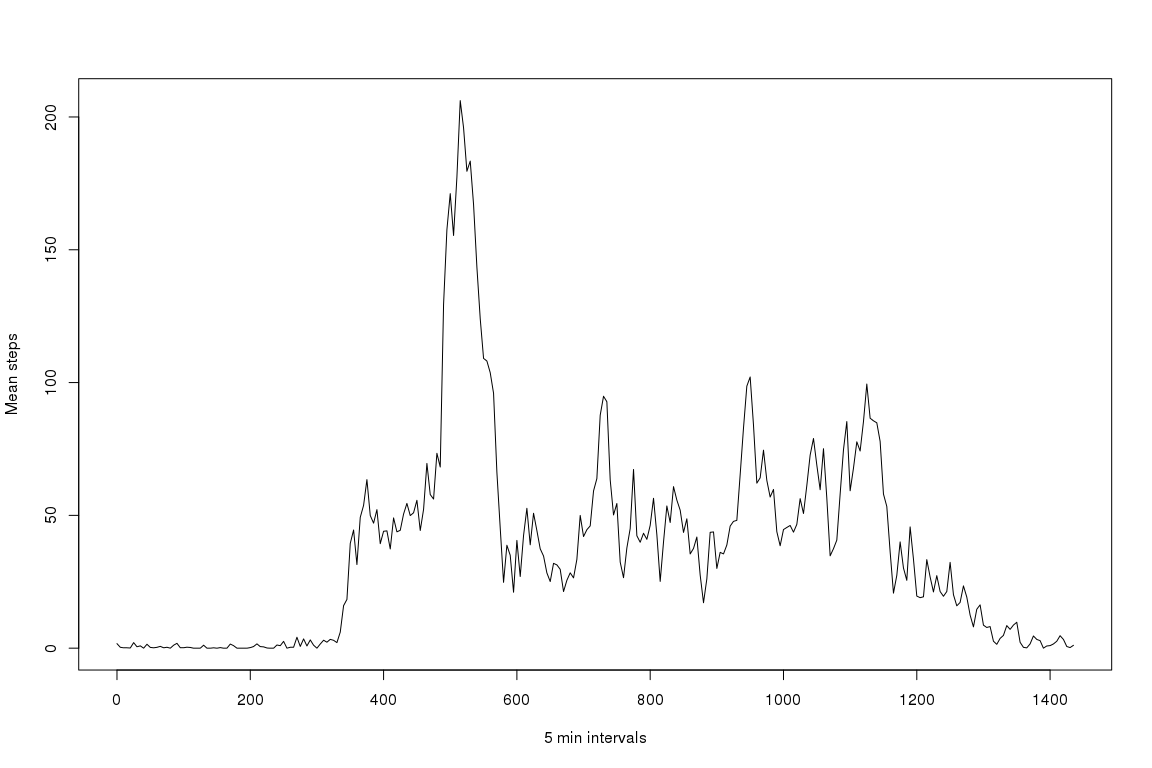
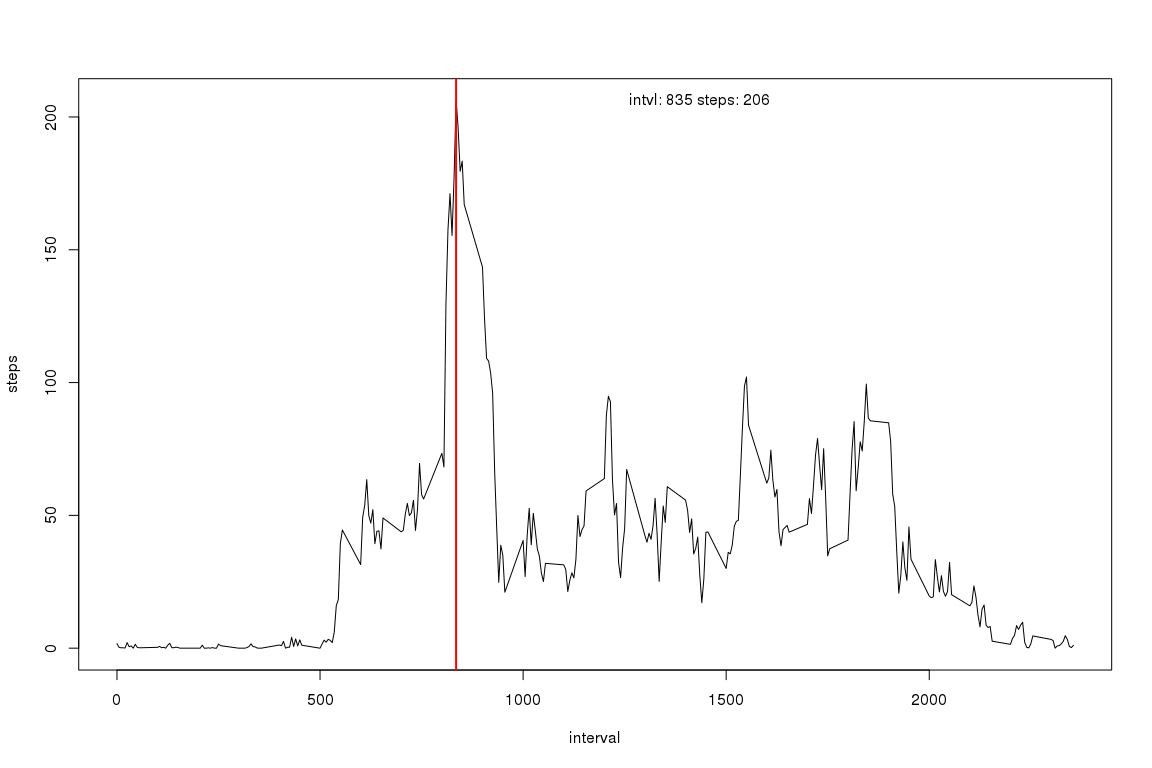
changes made after submission correcting mistakes in calculation of means, the plotting of the histograms, imputing data and the final plot is actually a panel plot

diff --git a/PA1_template.html b/PA1_template.html
@@ -131,45 +131,58 @@ $(document).ready(function () {
 <div id="what-is-mean-total-number-of-steps-taken-per-day" class="section level3">
 <h3>What is mean total number of steps taken per day?</h3>
 <pre class="r"><code>#calculate the mean number of steps taken for each day
-mean_daily_steps &lt;- tapply(X=activity$steps, INDEX = activity$date, FUN=mean, na.rm=TRUE)</code></pre>
+#mean_daily_steps &lt;- tapply(X=activity$steps, INDEX = activity$date, FUN=mean, na.rm=TRUE)
+mean_daily_steps &lt;- aggregate(steps ~ date, data=activity, sum, na.rm=TRUE)</code></pre>
 <p>A histogram of the number of steps taken each day is shown below</p>
-<pre class="r"><code>hist(mean_daily_steps)</code></pre>
+<pre class="r"><code>hist(mean_daily_steps$steps, xlab = &quot;Total daily steps taken&quot;)</code></pre>
 <p><img src="figure/unnamed-chunk-2-1.png" /><!-- --></p>
-<p>The mean number of total steps per day is 37.3825996 while the median is 37.3784722</p>
+<p>The mean number of total steps per day is 10766 while the median is 10765</p>
 </div>
 <div id="what-is-the-average-daily-activity-pattern" class="section level3">
 <h3>What is the average daily activity pattern?</h3>
 <p>A timeseries plot of the average of the 5-minute intervals across all days</p>
-<pre class="r"><code>mean_5min_intervals &lt;- tapply(X=activity$steps, INDEX = activity$interval, FUN=mean, na.rm=TRUE)
-plot(seq(0, 1435, by = 5), mean_5min_intervals, type=&quot;l&quot;, xlab = &quot;5 min intervals&quot;, ylab = &quot;Mean steps&quot;)</code></pre>
-<p><img src="figure/unnamed-chunk-3-1.png" /><!-- --></p>
-<pre class="r"><code>#calculate the max steps
-max_mean_5min_intervals &lt;- max(mean_5min_intervals,na.rm=TRUE)
+<pre class="r"><code>#mean_5min_intervals &lt;- tapply(X=activity$steps, INDEX = activity$interval, FUN=mean, na.rm=TRUE)
+#plot(seq(0, 1435, by = 5), mean_5min_intervals, type=&quot;l&quot;, xlab = &quot;5 min intervals&quot;, ylab = &quot;Mean steps&quot;)
+
+mean_5min_intervals &lt;- aggregate(steps ~ interval, data = activity, FUN = mean, na.rm=TRUE)
+
+plot(steps ~ interval, data = mean_5min_intervals, type=&quot;l&quot;)
+
+#calculate the max steps
+max_mean_5min_intervals &lt;- max(mean_5min_intervals$steps,na.rm=TRUE)
 
 #find the index with the highest number of steps
-idx_max_mean_5min_intervals &lt;- which(mean_5min_intervals == max_mean_5min_intervals)
-max_intvl &lt;- idx_max_mean_5min_intervals*5</code></pre>
-<p>The 5 min interval with the highest number of steps is 520 with 206.1698113 steps.</p>
+idx_max_mean_5min_intervals &lt;- which(mean_5min_intervals$steps == max_mean_5min_intervals)
+max_intvl &lt;- mean_5min_intervals[idx_max_mean_5min_intervals,]$interval
+
+abline(v=max_intvl, col=&quot;red&quot;, lwd=2)
+text(x=max_intvl+600,y=max_mean_5min_intervals, paste(&quot;intvl:&quot;,max_intvl, &quot;steps:&quot;, round(max_mean_5min_intervals), sep=&quot; &quot;))</code></pre>
+<p><img src="figure/unnamed-chunk-3-1.png" /><!-- --></p>
+<p>The 5 min interval with the highest number of steps is 835 with 206.1698113 steps.</p>
 </div>
 <div id="imputing-missing-values" class="section level3">
 <h3>Imputing missing values</h3>
-<pre class="r"><code>num_NA &lt;- sum(is.na(activity))
+<pre class="r"><code>num_NA &lt;- sum(is.na(activity$steps))
 
-#calculate the mean across all steps
-mean_all_intervals &lt;- mean(activity$steps, na.rm=TRUE)
+#calculate the mean steps for each interval
+mean_all_intervals &lt;- aggregate(steps ~ interval, data=activity, FUN=mean, na.rm=TRUE)
 
 #copy the activity dataset
 activity_noNA &lt;- activity
 
-#replace all NAs with the mean across all steps
-activity_noNA[is.na(activity_noNA$steps),&quot;steps&quot;] &lt;- mean_all_intervals
+intervals_NA &lt;- activity_noNA[is.na(activity_noNA$steps),&quot;interval&quot;]
 
-mean_5min_intervals_noNA &lt;- tapply(X=activity_noNA$steps, INDEX = activity_noNA$interval, FUN=mean, na.rm=TRUE)</code></pre>
+#replace all NAs with the mean for that 5 min interval
+ activity_noNA[is.na(activity_noNA$steps),&quot;steps&quot;]  &lt;- sapply(intervals_NA, FUN = function(x) { mean_all_intervals[mean_all_intervals$interval == x, &quot;steps&quot;]})
+
+#mean_5min_intervals_noNA &lt;- tapply(X=activity_noNA$steps, INDEX = activity_noNA$interval, FUN=mean, na.rm=TRUE)
+
+mean_5min_intervals_noNA &lt;- aggregate(steps ~ date, data=activity_noNA, FUN=sum, na.rm=TRUE)</code></pre>
 <p>A histogram of the number of steps taken each day with imputed data is shown below</p>
-<pre class="r"><code>hist(mean_5min_intervals_noNA)</code></pre>
+<pre class="r"><code>hist(mean_5min_intervals_noNA$steps, xlab = &quot;Total steps taken&quot;)</code></pre>
 <p><img src="figure/unnamed-chunk-5-1.png" /><!-- --></p>
-<p>There is a great change in the distribution of the steps. The imputed data displays a strong right skew while the data with NAs is almost normally distributed.</p>
-<p>The mean number of total steps per day is 37.3825996 while the median is 34.5419803</p>
+<p>There is a slight change in that there are higher counts around the center of the histogram.</p>
+<p>The mean number of total steps per day is 10766 while the median is 10766</p>
 </div>
 <div id="are-there-differences-in-activity-patterns-between-weekdays-and-weekends" class="section level3">
 <h3>Are there differences in activity patterns between weekdays and weekends?</h3>
@@ -177,26 +190,30 @@ mean_5min_intervals_noNA &lt;- tapply(X=activity_noNA$steps, INDEX = activity_no
 
 activity$wkday &lt;- as.factor(activity$wkday)
 
-wkdays &lt;- which(activity$wkday == &quot;weekday&quot;)
-wkends &lt;- which(activity$wkday == &quot;weekend&quot;)
+#wkdays &lt;- which(activity$wkday == &quot;weekday&quot;)
+#wkends &lt;- which(activity$wkday == &quot;weekend&quot;)
 
+#weekday_means &lt;- tapply(X=activity[wkdays,]$steps, INDEX = activity[wkdays,]$interval, FUN=mean, na.rm=TRUE)
 
-wkdays &lt;- which(activity$wkday == &quot;weekday&quot;)
-wkends &lt;- which(activity$wkday == &quot;weekend&quot;)
+#weekend_means &lt;- tapply(X=activity[wkends,]$steps, INDEX = activity[wkends,]$interval, FUN=mean, na.rm=TRUE)
 
-weekday_means &lt;- tapply(X=activity[wkdays,]$steps, INDEX = activity[wkdays,]$interval, FUN=mean, na.rm=TRUE)
+#par(mfrow=c(1,2))
 
-weekend_means &lt;- tapply(X=activity[wkends,]$steps, INDEX = activity[wkends,]$interval, FUN=mean, na.rm=TRUE)
+#rng &lt;- range(weekday_means, weekend_means)
 
-par(mfrow=c(1,2))
+#plot(seq(0, 1435, by = 5), weekday_means, type=&quot;l&quot;, ylim=rng, xlab = &quot;5 min intervals&quot;, ylab = &quot;Mean steps&quot;, sub = &quot;weekday&quot;)
+#
+#plot(seq(0, 1435, by = 5), weekend_means, type=&quot;l&quot;, ylim=rng, xlab = &quot;5 min intervals&quot;, ylab = &quot;Mean steps&quot;, sub = &quot;weekend&quot;)
+#
+#title(main=&quot;Average steps per interval&quot;, outer = TRUE)
 
-rng &lt;- range(weekday_means, weekend_means)
+par(mfrow=c(1,1))
 
-plot(seq(0, 1435, by = 5), weekday_means, type=&quot;l&quot;, ylim=rng, xlab = &quot;5 min intervals&quot;, ylab = &quot;Mean steps&quot;, sub = &quot;weekday&quot;)
+#means &lt;- aggregate(activity$steps, by=list(activity$wkday, activity$interval), mean, na.rm=TRUE)
 
-plot(seq(0, 1435, by = 5), weekend_means, type=&quot;l&quot;, ylim=rng, xlab = &quot;5 min intervals&quot;, ylab = &quot;Mean steps&quot;, sub = &quot;weekend&quot;)
+means &lt;- aggregate(steps ~ interval + wkday, data = activity, mean, na.rm=TRUE)
 
-title(main=&quot;Average steps per interval&quot;, outer = TRUE)</code></pre>
+lattice::xyplot(steps ~ interval | as.factor(means$wkday), data = means, type=&quot;l&quot;)</code></pre>
 <p><img src="figure/unnamed-chunk-6-1.png" /><!-- --></p>
 <p>There are differences between weekday and weekend activity. There is a slower start to activity on the weekend which culminates in higher volumes in the middle of the day than weekdays. Weekdays however have a higher maximum number of steps early in the day.</p>
 </div>

diff --git a/PA1_template.md b/PA1_template.md
@@ -11,19 +11,20 @@ July 21, 2016
 
 ```r
 #calculate the mean number of steps taken for each day
-mean_daily_steps <- tapply(X=activity$steps, INDEX = activity$date, FUN=mean, na.rm=TRUE)
+#mean_daily_steps <- tapply(X=activity$steps, INDEX = activity$date, FUN=mean, na.rm=TRUE)
+mean_daily_steps <- aggregate(steps ~ date, data=activity, sum, na.rm=TRUE)
 ```
 
 A histogram of the number of steps taken each day is shown below
 
 
 ```r
-hist(mean_daily_steps)
+hist(mean_daily_steps$steps, xlab = "Total daily steps taken")
 ```
 
 ![](figure/unnamed-chunk-2-1.png)<!-- -->
 
-The mean number of total steps per day is 37.3825996 while the median is 37.3784722
+The mean number of total steps per day is 10766 while the median is 10765
 
 ###What is the average daily activity pattern?
 
@@ -31,52 +32,62 @@ A timeseries plot of the average of the 5-minute intervals across all days
 
 
 ```r
-mean_5min_intervals <- tapply(X=activity$steps, INDEX = activity$interval, FUN=mean, na.rm=TRUE)
-plot(seq(0, 1435, by = 5), mean_5min_intervals, type="l", xlab = "5 min intervals", ylab = "Mean steps")
+#mean_5min_intervals <- tapply(X=activity$steps, INDEX = activity$interval, FUN=mean, na.rm=TRUE)
+#plot(seq(0, 1435, by = 5), mean_5min_intervals, type="l", xlab = "5 min intervals", ylab = "Mean steps")
+
+mean_5min_intervals <- aggregate(steps ~ interval, data = activity, FUN = mean, na.rm=TRUE)
+
+plot(steps ~ interval, data = mean_5min_intervals, type="l")
+
+#calculate the max steps
+max_mean_5min_intervals <- max(mean_5min_intervals$steps,na.rm=TRUE)
+
+#find the index with the highest number of steps
+idx_max_mean_5min_intervals <- which(mean_5min_intervals$steps == max_mean_5min_intervals)
+max_intvl <- mean_5min_intervals[idx_max_mean_5min_intervals,]$interval
+
+abline(v=max_intvl, col="red", lwd=2)
+text(x=max_intvl+600,y=max_mean_5min_intervals, paste("intvl:",max_intvl, "steps:", round(max_mean_5min_intervals), sep=" "))
 ```
 
 ![](figure/unnamed-chunk-3-1.png)<!-- -->
 
-```r
-#calculate the max steps
-max_mean_5min_intervals <- max(mean_5min_intervals,na.rm=TRUE)
-
-#find the index with the highest number of steps
-idx_max_mean_5min_intervals <- which(mean_5min_intervals == max_mean_5min_intervals)
-max_intvl <- idx_max_mean_5min_intervals*5
-```
-The 5 min interval with the highest number of steps is 520 with 206.1698113 steps.
+The 5 min interval with the highest number of steps is 835 with 206.1698113 steps.
 
 ###Imputing missing values
 
 
 ```r
-num_NA <- sum(is.na(activity))
+num_NA <- sum(is.na(activity$steps))
 
-#calculate the mean across all steps
-mean_all_intervals <- mean(activity$steps, na.rm=TRUE)
+#calculate the mean steps for each interval
+mean_all_intervals <- aggregate(steps ~ interval, data=activity, FUN=mean, na.rm=TRUE)
 
 #copy the activity dataset
 activity_noNA <- activity
 
-#replace all NAs with the mean across all steps
-activity_noNA[is.na(activity_noNA$steps),"steps"] <- mean_all_intervals
+intervals_NA <- activity_noNA[is.na(activity_noNA$steps),"interval"]
 
-mean_5min_intervals_noNA <- tapply(X=activity_noNA$steps, INDEX = activity_noNA$interval, FUN=mean, na.rm=TRUE)
+#replace all NAs with the mean for that 5 min interval
+ activity_noNA[is.na(activity_noNA$steps),"steps"]  <- sapply(intervals_NA, FUN = function(x) { mean_all_intervals[mean_all_intervals$interval == x, "steps"]})
+
+#mean_5min_intervals_noNA <- tapply(X=activity_noNA$steps, INDEX = activity_noNA$interval, FUN=mean, na.rm=TRUE)
+
+mean_5min_intervals_noNA <- aggregate(steps ~ date, data=activity_noNA, FUN=sum, na.rm=TRUE)
 ```
 
 A histogram of the number of steps taken each day with imputed data is shown below
 
 
 ```r
-hist(mean_5min_intervals_noNA)
+hist(mean_5min_intervals_noNA$steps, xlab = "Total steps taken")
 ```
 
 ![](figure/unnamed-chunk-5-1.png)<!-- -->
 
-There is a great change in the distribution of the steps. The imputed data displays a strong right skew while the data with NAs is almost normally distributed.
+There is a slight change in that there are higher counts around the center of the histogram.
 
-The mean number of total steps per day is 37.3825996 while the median is 34.5419803
+The mean number of total steps per day is 10766 while the median is 10766
 
 ###Are there differences in activity patterns between weekdays and weekends?
 
@@ -86,26 +97,30 @@ activity$wkday <- sapply(weekdays(activity$date, abbreviate = TRUE), FUN = funct
 
 activity$wkday <- as.factor(activity$wkday)
 
-wkdays <- which(activity$wkday == "weekday")
-wkends <- which(activity$wkday == "weekend")
+#wkdays <- which(activity$wkday == "weekday")
+#wkends <- which(activity$wkday == "weekend")
 
+#weekday_means <- tapply(X=activity[wkdays,]$steps, INDEX = activity[wkdays,]$interval, FUN=mean, na.rm=TRUE)
 
-wkdays <- which(activity$wkday == "weekday")
-wkends <- which(activity$wkday == "weekend")
+#weekend_means <- tapply(X=activity[wkends,]$steps, INDEX = activity[wkends,]$interval, FUN=mean, na.rm=TRUE)
 
-weekday_means <- tapply(X=activity[wkdays,]$steps, INDEX = activity[wkdays,]$interval, FUN=mean, na.rm=TRUE)
+#par(mfrow=c(1,2))
 
-weekend_means <- tapply(X=activity[wkends,]$steps, INDEX = activity[wkends,]$interval, FUN=mean, na.rm=TRUE)
+#rng <- range(weekday_means, weekend_means)
 
-par(mfrow=c(1,2))
+#plot(seq(0, 1435, by = 5), weekday_means, type="l", ylim=rng, xlab = "5 min intervals", ylab = "Mean steps", sub = "weekday")
+#
+#plot(seq(0, 1435, by = 5), weekend_means, type="l", ylim=rng, xlab = "5 min intervals", ylab = "Mean steps", sub = "weekend")
+#
+#title(main="Average steps per interval", outer = TRUE)
 
-rng <- range(weekday_means, weekend_means)
+par(mfrow=c(1,1))
 
-plot(seq(0, 1435, by = 5), weekday_means, type="l", ylim=rng, xlab = "5 min intervals", ylab = "Mean steps", sub = "weekday")
+#means <- aggregate(activity$steps, by=list(activity$wkday, activity$interval), mean, na.rm=TRUE)
 
-plot(seq(0, 1435, by = 5), weekend_means, type="l", ylim=rng, xlab = "5 min intervals", ylab = "Mean steps", sub = "weekend")
+means <- aggregate(steps ~ interval + wkday, data = activity, mean, na.rm=TRUE)
 
-title(main="Average steps per interval", outer = TRUE)
+lattice::xyplot(steps ~ interval | as.factor(means$wkday), data = means, type="l")
 ```
 
 ![](figure/unnamed-chunk-6-1.png)<!-- -->
